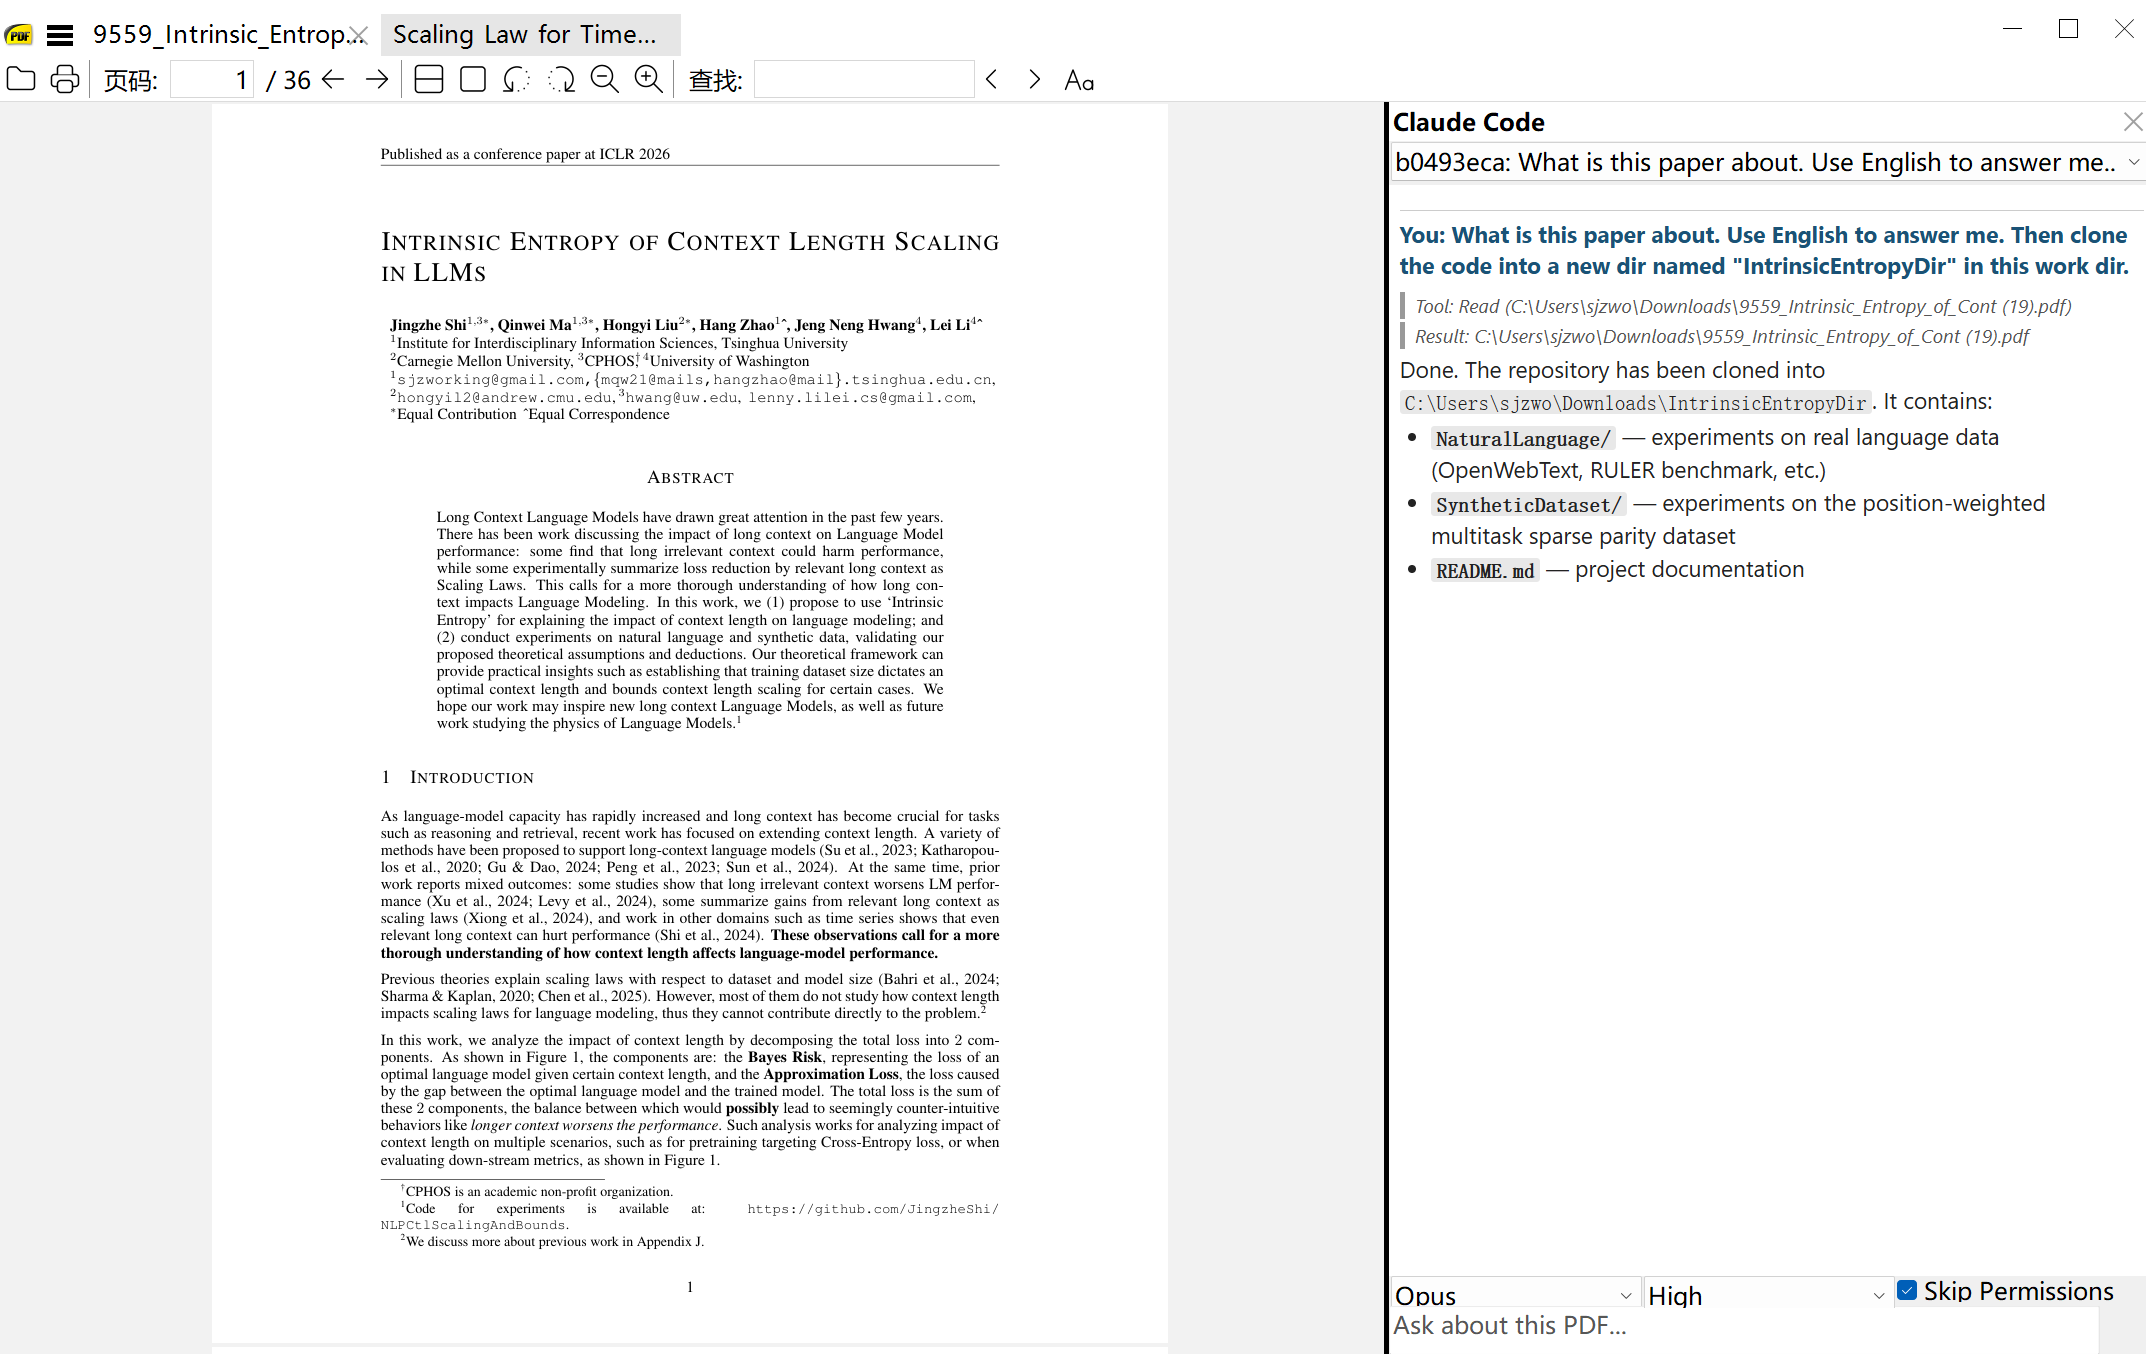
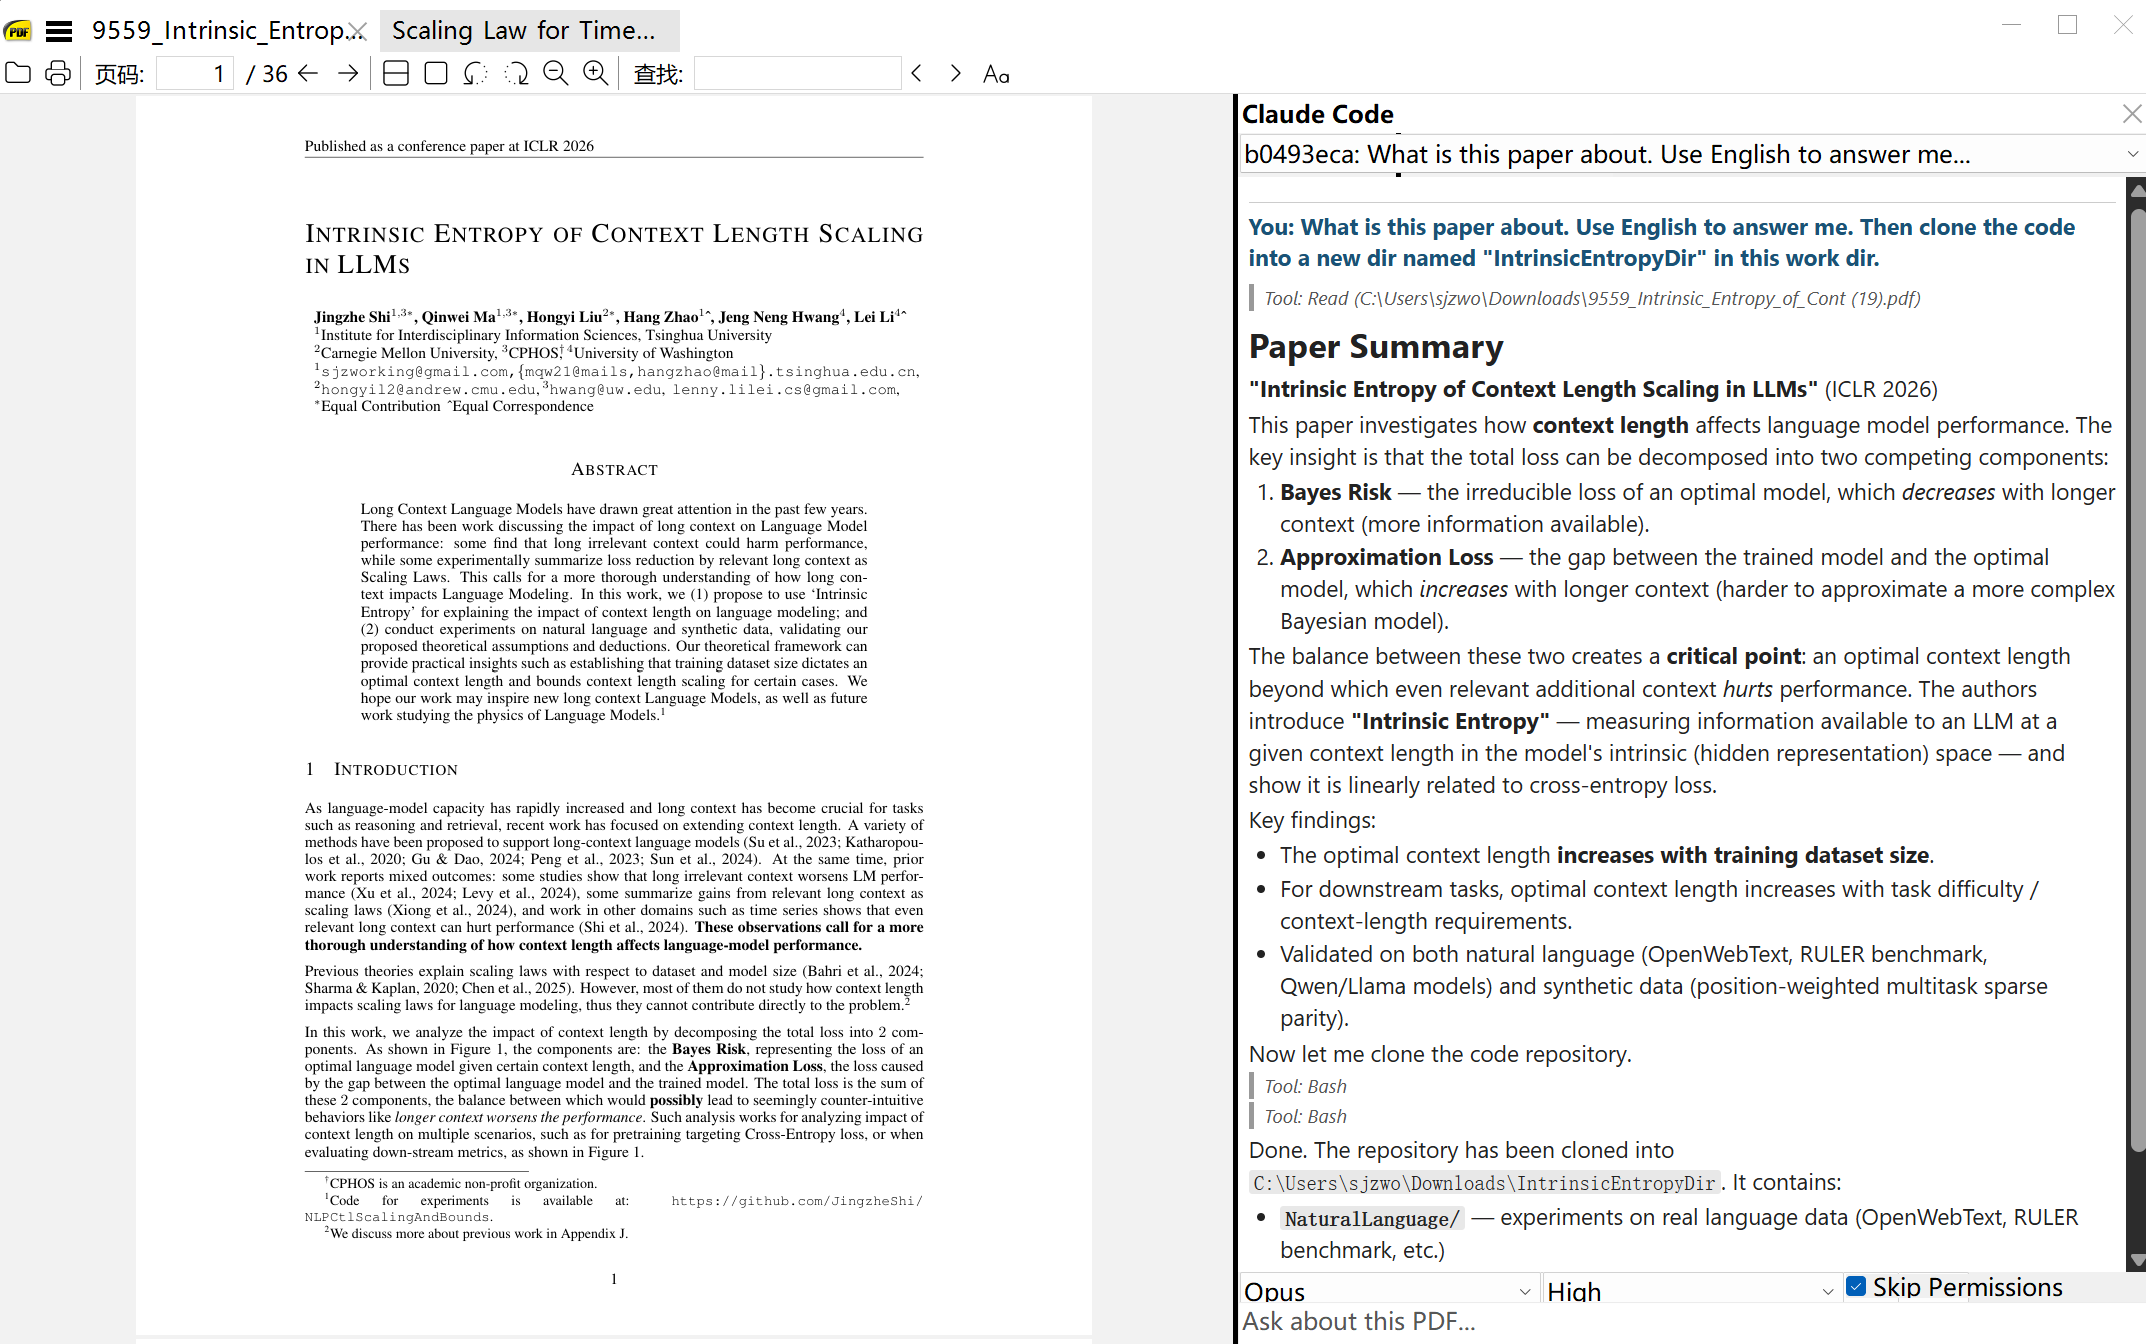
Fix tool_result messages shown as user messages in session history, update screenshot

diff --git a/src/ClaudeCode.cpp b/src/ClaudeCode.cpp
@@ -423,6 +423,10 @@ static TempStr ExtractUserTextTemp(const char* line) {
     if (!str::Find(line, "\"role\":\"user\"")) {
         return nullptr;
     }
+    // skip tool_result messages (they have role:user but contain tool output, not user text)
+    if (str::Find(line, "\"tool_result\"")) {
+        return nullptr;
+    }
     // try string format: "content":"text"
     if (str::Find(line, "\"content\":\"")) {
         TempStr content = JsonStrTemp(line, "content");
